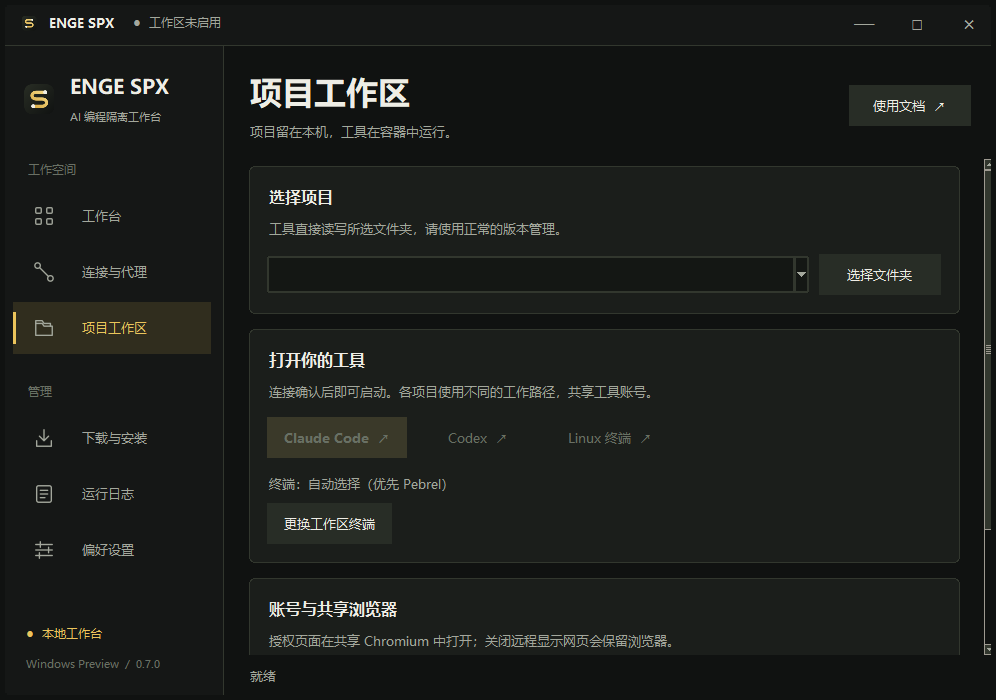
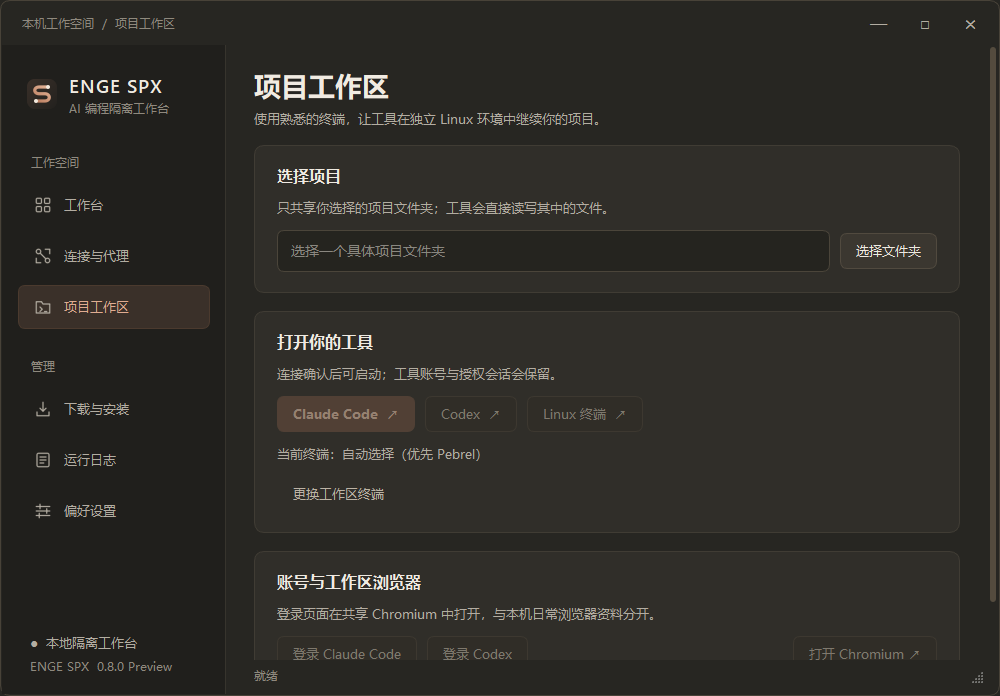
docs: publish native Windows UI screenshots and 0.8.0 validation

diff --git a/docs/validation-0.8.zh-CN.md b/docs/validation-0.8.zh-CN.md
@@ -1,0 +1,76 @@
+# 0.8.0 界面重构与发布验证
+
+验证日期：2026-11-09。版本为 **0.8.0 Preview**。
+
+- [Windows 安装版、便携版与校验文件](https://github.com/engeeeee/ENGE-SPX/releases/tag/v0.8.0-windows)
+- [完整受测构建](https://github.com/engeeeee/ENGE-SPX/actions/runs/42637404474)，所有任务成功。
+- 发布标签与受测源码均为 `0ceb0067215cd2ec77fce585ec7bfda1b6250771`。
+- [原生 Windows 界面、缩放截图与检查结果](https://github.com/engeeeee/ENGE-SPX/actions/runs/42637404474/artifacts/13683602733)。
+
+## 本次变化
+
+桌面界面迁移到 PySide6 / Qt，采用暖深灰、陶土橙与暖白文字，统一页面、
+表单、按钮和软件内弹窗。产品名按实际文字宽度排版；窄窗口将完整品牌
+移到标题栏，准备步骤和指标区随宽度重排。主窗口保留自定义标题栏，
+通过 Qt 与系统处理移动、缩放、最小化和最大化。
+
+次要页面首次访问时才创建；相同状态不重复更新视图，后台消息限量分批
+交给界面，空闲时停止消息投递计时器。Docker 检测、环境获取、代理与出口
+检查、项目工具、终端选择和存储迁移继续沿用原有核心逻辑。
+
+![0.8.0 Windows 工作台](images/spx-overview.png)
+
+## 验证结果
+
+| 检查 | 结果 |
+| --- | --- |
+| Windows Python 3.12 | 运行 127 项测试，2 项按平台跳过，其余通过 |
+| Linux Python 3.12 | 运行 127 项测试，6 项按平台跳过，其余通过 |
+| 实际界面操作 | 页面切换、节点表单绑定、异步准备与取消、迁移后的窗口身份通过 |
+| 品牌与布局 | 普通窗口及 125% / 150% / 200% 独立缩放进程均检查完整产品名、主按钮可见及窗口工作区范围 |
+| 窗口与弹窗 | 最小化、最大化、还原、模态确认和取消通过；确认弹窗默认回车为取消 |
+| 空闲刷新 | 检查期间重复状态视图更新为 0，后台消息投递计时器在空闲时停止 |
+| 真实程序入口 | 源码与实际打包 GUI 完成自动启动独立假 Desktop、焦点与主题通知、就绪后的响应及正常关闭检查；新管理 CLI 与旧 Desktop 回退均通过 |
+| 打包运行时 | CLI 自检为 Python 3.12.10，GUI 与 CLI 为 Windows x64，产品版本为 0.8.0 Preview |
+| 安装卸载 | 当前用户安装、快捷方式、安装后 CLI 和卸载保留私有数据通过 |
+| Linux 容器 | 实际 Docker 完成双出口核对、直接出网阻断、Chromium / VNC / 登录回调、租约到期、停止与迁移后资料保留检查 |
+| 代理链路 | 本机 HTTP 前置、带认证 SOCKS / HTTP 落地及软件内加密双跳通过；检查远端落地 DNS、故障阻断与 NO_PROXY 污染 |
+| 预构建环境 | 完整归档在 containerd 与 classic 两种镜像存储完成导入与重复安装，保留已有标签和容器数据 |
+
+打包 GUI 的内部首次显示检查记录为 **768 ms**。计时从 GUI 初始化函数
+开始，未包含进程启动、导入与 DLL 加载、Docker 初始化、环境下载或出口
+检查；这不是端到端冷启动耗时，也不能用作不同电脑之间的性能保证。
+
+Desktop 自动启动检查使用隔离的假 CLI 与独立桌面进程；实际容器集成在
+Linux Docker 中运行。尚未代替用户电脑的真实 Docker Desktop / WSL
+首次初始化、多显示器、v2ray 和 Pebrel 组合交互验收。容器配方与 0.7.1
+相同，已有匹配镜像可继续复用。
+
+## 公开下载核验
+
+发布后使用程序相同的 HTTPS 客户端，从公开地址完整下载安装版、便携版、
+运行环境清单与校验文件。文件长度和 SHA-256 与 GitHub 资产摘要一致；
+便携 ZIP 完整性、两个程序入口的 x64 PE 与版本信息、Qt DLL、说明和
+第三方许可证均已检查。包内已移除 Tk 运行库。
+
+| 资产 | 字节数 | SHA-256 |
+| --- | ---: | --- |
[3 lines of base64/hex data omitted]
+
+约 949 MB 的完整运行环境已在 CI 校验并导入两种镜像存储，发布后未在本地
+重复完整下载。公开清单的配方与源码一致，归档大小和摘要与 CI 及 GitHub
+元数据一致；公开 Range 请求返回正确总长度及有效 gzip 头。
+
+## 升级与边界
+
+先退出旧版 ENGE SPX，再安装或解压新版，避免单实例机制唤起仍在运行的
+旧窗口。便携版需完整解压并保留 `_internal`。无需为本次界面升级删除
+Docker 镜像、配置或项目。
+
+软件仍为未签名的 Preview。Qt / PySide 的许可证、归属与对应源码地址见
+[第三方说明](../THIRD_PARTY_NOTICES.md)及随包 `licenses` 和
+`THIRD-PARTY-LICENSES/Qt`。界面重构不扩大隔离保证，共享项目、账号与
+网络监测范围仍见 [安全模型](security-model.zh-CN.md)。本地故障日志
+位置与排查步骤见 [安装排障](installation-troubleshooting.zh-CN.md)。

diff --git a/README.en.md b/README.en.md
@@ -114,7 +114,7 @@ Most detailed guides are in Chinese:
 
 ## Development and status
 
-Maintained by [engeeeee](https://github.com/engeeeee). Source use requires Python 3.12+ with PySide6 / Qt. Install with `python -m pip install -e .` and launch `spx`, or use `Start-Windows.cmd` on Windows. Windows packaging uses PyInstaller and Inno Setup. See [development instructions](docs/development.md), [earlier startup validation](docs/validation-0.7.1.zh-CN.md) and [CHANGELOG](CHANGELOG.md).
+Maintained by [engeeeee](https://github.com/engeeeee). Source use requires Python 3.12+ with PySide6 / Qt. Install with `python -m pip install -e .` and launch `spx`, or use `Start-Windows.cmd` on Windows. Windows packaging uses PyInstaller and Inno Setup. See [development instructions](docs/development.md), [0.8.0 UI, packaging and download validation](docs/validation-0.8.zh-CN.md) and [CHANGELOG](CHANGELOG.md).
 
 The current focus is Windows x64, controlled proxy paths and existing-data compatibility. There is no Windows ARM64 package or automatic updater. Unsupported WS / gRPC / Reality / XTLS / uTLS parameters cannot be imported as managed lines.
 

diff --git a/README.md b/README.md
@@ -153,7 +153,7 @@ python -m venv .venv
 .\.venv\Scripts\spx.exe
 ```
 
-Windows 包使用 PyInstaller 和 Inno Setup 构建。CI 覆盖 Windows / Linux 检查、GUI 与安装卸载、真实 Linux Docker 链路及两种镜像存储；[既有启动验证记录](docs/validation-0.7.1.zh-CN.md)列出了结果、资产摘要和未覆盖的实机交互范围。源码结构与构建见 [开发说明](docs/development.md)，版本变化见 [CHANGELOG](CHANGELOG.md)。
+Windows 包使用 PyInstaller 和 Inno Setup 构建。CI 覆盖 Windows / Linux 检查、GUI 与安装卸载、真实 Linux Docker 链路及两种镜像存储；[0.8.0 验证记录](docs/validation-0.8.zh-CN.md)列出了界面、缩放、下载核验结果和未覆盖的实机交互范围。源码结构与构建见 [开发说明](docs/development.md)，版本变化见 [CHANGELOG](CHANGELOG.md)。
 
 ## 许可与来源
 

diff --git a/docs/branding.zh-CN.md b/docs/branding.zh-CN.md
@@ -27,8 +27,9 @@ Git 提交起点，没有连接原仓库的 fork 网络。
 文件与文件夹选择继续使用系统对话框。颜色来自本项目的主题定义，产品名称
 和图形标识仍为 ENGE SPX，不代表与 Claude / Anthropic 有官方关系。
 
-以下图像仍保留 0.7.0 的历史示例，当前 Qt 界面和缩放检查结果见相应构建的
-UI Artifact。图像没有填入演示出口、代理凭据或用户项目；发布后会更新截图。
+以下图像来自 0.8.0 受测源码在原生 Windows CI 中运行的真实 Qt 界面，
+没有填入演示出口、代理凭据或用户项目。完整截图、125% / 150% / 200%
+缩放检查及覆盖范围见 [0.8.0 验证记录](validation-0.8.zh-CN.md)。
 
 ![ENGE SPX 工作台](images/spx-overview.png)
 
